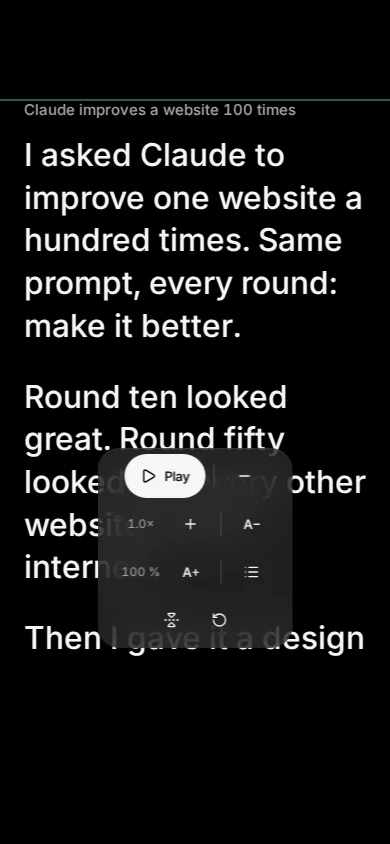
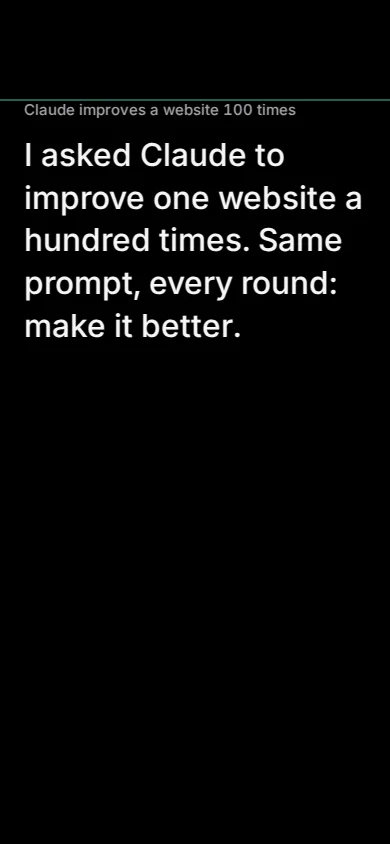
Landing page on phones: the wallpaper fills hero and app area (no flat band), the app as a readable crew-chat crop at full width, the teleprompter screen without its control panel, a larger drum card
Claude-Session: https://claude.ai/code/session_0155cQo7JNko2nMx9UFSJV3g

Changed region(s): [[0.0615, 0.4313, 0.9538, 0.8009]]

diff --git a/site/assets/site.css b/site/assets/site.css
@@ -158,6 +158,7 @@ main > section.g2 > .wrap > .group { min-height: 0; display: flex; flex-directio
 @keyframes enter-up { from { opacity: 0; transform: translateY(8px); } to { opacity: 1; transform: none; } }
 
 .stage__frame { position: relative; flex: 1 1 0; min-height: 0; display: flex; align-items: flex-start; }
+.stage__frame picture { display: contents; }
 .stage__shot { width: 100%; height: auto; max-height: 100%; object-fit: cover; object-position: 50% 0; border-radius: 16px; box-shadow: 0 60px 120px -40px rgba(0, 25, 20, 0.7), 0 20px 60px -20px rgba(0, 25, 20, 0.5); -webkit-mask-image: linear-gradient(180deg, #000 82%, transparent); mask-image: linear-gradient(180deg, #000 82%, transparent); }
 .workcard { position: absolute; left: 24px; bottom: 130px; width: 290px; z-index: 3; border-radius: 20px; padding: 14px; background: rgba(8, 22, 19, 0.74); -webkit-backdrop-filter: blur(24px) saturate(1.5); backdrop-filter: blur(24px) saturate(1.5); color: #EAF5F1; box-shadow: inset 0 0 0 1px rgba(255, 255, 255, 0.12), 0 40px 70px -30px rgba(0, 0, 0, 0.7); }
 .workcard__h { font: 700 15px var(--display); margin-bottom: 10px; }
@@ -327,14 +328,15 @@ footer.closing > .wrap { justify-content: space-between; gap: 32px; }
   .hero__lead { font-size: 16.5px; margin-top: 18px; }
   .hero .btn-row { flex-direction: column; align-items: stretch; width: 100%; margin-top: 26px; }
   .hero__facts { line-height: 38px; }
-  .stage__frame { flex: none; display: flex; flex-direction: column; gap: 20px; }
-  .stage__shot { height: auto; border-radius: 10px; -webkit-mask-image: none; mask-image: none; }
+  .hero { background-size: 100% 100%, 100% 100%, cover; background-position: 0 0, 0 0, 50% 100%; animation: none; }
+  .stage { padding-top: 56px; background-size: cover; background-position: 50% 100%; animation: none; }
+  .stage__frame { flex: none; display: block; }
+  .stage__phone { display: none !important; }
+  .stage__shot { width: 100%; height: auto; max-height: none; border-radius: 16px; -webkit-mask-image: none; mask-image: none; }
   .workcard { display: none; }
-  .stage__phone { position: relative; right: auto; bottom: auto; width: 190px; margin: 0 auto; }
-  .stage__phone .phone__lines { font-size: 15px; }
   .lead, .sh .lead { font-size: 16.5px; }
   .sh { margin-bottom: 26px; }
-  .drum { height: 320px; }
+  .drum { height: 300px; }
   .chips .chip { height: 30px; font-size: 13px; padding: 0 11px; }
   .scene { flex: none; border-radius: 28px; padding: 22px 14px 0; }
   .scene img { height: auto; }

diff --git a/site/index.html b/site/index.html
@@ -75,7 +75,7 @@
   <section class="stage" id="app" aria-label="The Crewcut app">
     <div class="wrap">
       <div class="stage__frame">
-        <img class="stage__shot" src="media/app/episode-dark-1760.webp" srcset="media/app/episode-dark-1200.webp 1200w, media/app/episode-dark-1760.webp 1760w, media/app/episode-dark-2400.webp 2400w" sizes="(min-width: 1360px) 1200px, calc(100vw - 32px)" alt="An episode in Crewcut: thumbnail A, B and C to pick from, the cut as a film strip with the Critic's notes, the 3D scenes and the rented GPU, and the crew chat on the right" width="1760" height="1206" fetchpriority="high">
+        <picture><source media="(max-width: 760px)" srcset="media/app/episode-chat-phone.webp" width="720" height="1142"><img class="stage__shot" src="media/app/episode-dark-1760.webp" srcset="media/app/episode-dark-1200.webp 1200w, media/app/episode-dark-1760.webp 1760w, media/app/episode-dark-2400.webp 2400w" sizes="(min-width: 1360px) 1200px, calc(100vw - 32px)" alt="An episode in Crewcut: thumbnail A, B and C to pick from, the cut as a film strip with the Critic's notes, the 3D scenes and the rented GPU, and the crew chat on the right" width="1760" height="1206" fetchpriority="high"></picture>
         <div class="workcard" role="img" aria-label="Working now: the Editor renders 3D scene 5 of 5 on a rented GPU, the Designer checks thumbnail B on a phone, the Critic compares cut v2 with your best video">
           <p class="workcard__h">Working now</p>
           <div class="workcard__j"><img src="assets/brand/crew/editor.svg" alt="" width="36" height="36"><div><b>Editor</b><span>3D scene 5 of 5, rented GPU</span><i class="workcard__bar"><i></i></i></div></div>

diff --git a/site/assets/site.js b/site/assets/site.js
@@ -29,8 +29,8 @@
     function draw() {
       g.setTransform(dpr, 0, 0, dpr, 0, 0);
       g.clearRect(0, 0, w, h);
-      const phone = w < 600, k = phone ? 0.58 : 0.9;
-      const R = 800 * k, P = 3200 * k, cx = w / 2, cy = h * (phone ? 0.46 : 0.5);
+      const phone = w < 600, k = phone ? 0.95 : 0.9;
+      const R = 800 * k, P = 3200 * k, cx = w / 2, cy = h * 0.5;
       const list = [];
       items.forEach((it, i) => {
         const a = (i * 18 + turn + scrollTurn) * Math.PI / 180, c = Math.cos(a);
